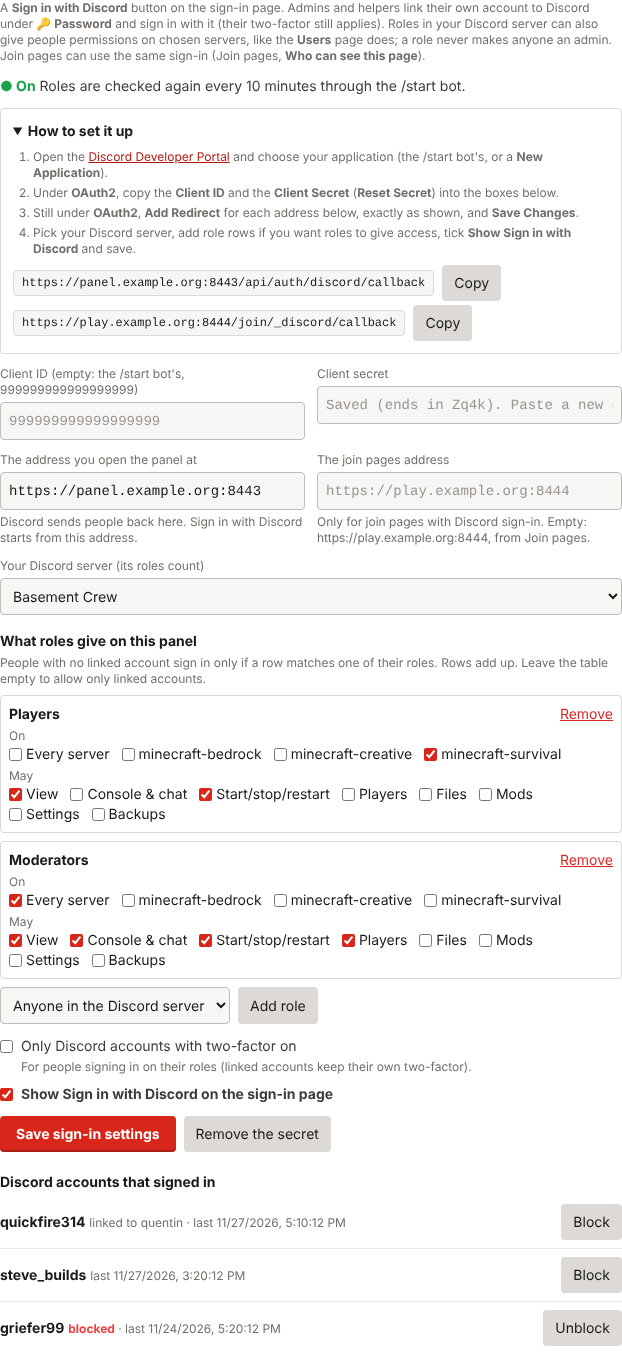
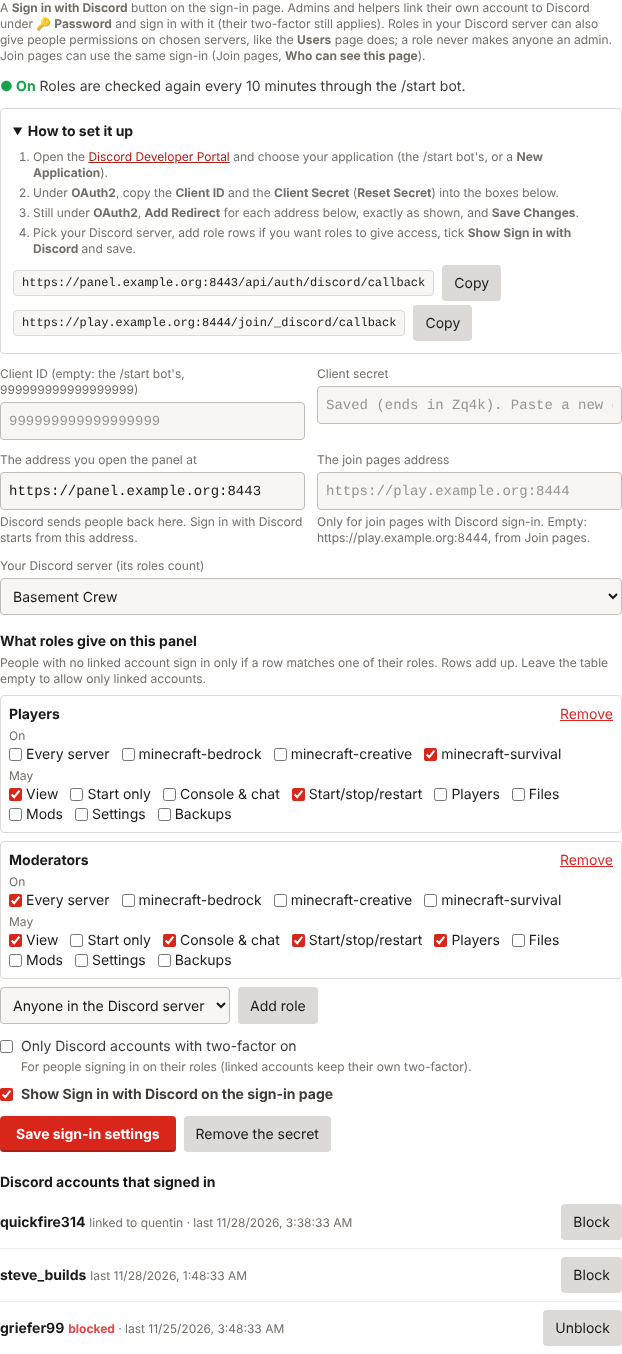
Release 1.28.0: Sign in with Discord, join pages by permission, Whitelist by Discord
Claude-Session: https://claude.ai/code/session_01S6K3h1Bb4rkuJgc47B5pta

diff --git a/docs/wiki/Roadmap.md b/docs/wiki/Roadmap.md
@@ -1,6 +1,6 @@
 # Roadmap
 
-What's being built now and what's planned after **1.27.0**, the latest release. Version numbers are targets, not promises, and your feedback
+What's being built now and what's planned after **1.28.0**, the latest release. Version numbers are targets, not promises, and your feedback
 decides the order: tell us in the
 [discussions](https://github.com/qrussell/redstonepanel/discussions) or on
 [Discord](https://discord.gg/B5YkQm3zaX) what you'd use first.
@@ -83,7 +83,7 @@ can), and Windows 10 installs with an end-of-support note. Windows on ARM comes 
   The panel itself is the bot: paste a bot token in Panel Settings, choose the Discord servers
   and roles that may use it and the servers it may start. Nothing to forward, Linux and Windows.
 
-### 1.28: Sign in with Discord, and who can see a join page *(planned)*
+### 1.28: Sign in with Discord, who can see a join page, and Whitelist by Discord *(released)*
 
 - **Sign in with Discord** on the panel. Roles in your Discord server give people permissions on
   chosen servers, so giving someone the Mod role is all it takes. Free, in the core panel.
@@ -91,6 +91,10 @@ can), and Windows 10 installs with an end-of-support note. Windows on ARM comes 
   (with a panel account or Discord), or go by permission: who may see how to join, who may
   **Start** the server and who may **Stop** it. A page can also require joining your Discord
   first and show its invite link. Discord is optional.
+- **Whitelist by Discord.** Players link their Minecraft name in your Discord and the panel keeps
+  each server's whitelist: per server for anyone in your Discord, by role, or after a moderator
+  approves them. Trusted invites (your friends' link) skip approval; losing the role takes the
+  name off again. Names you add by hand are never touched.
 
 ## Ideas under consideration
 
@@ -124,4 +128,4 @@ close the gaps people most often notice when choosing a panel.
 
 ## Recently shipped
 
-See [What's New](Whats-New.md). The latest: **1.27** adds a Discord `/start` command that starts a server (or wakes it from sleep mode), with the panel itself as the bot; **1.26** adds sleep mode, which stops a server nobody plays on and starts it when someone joins, and a Start button on join pages; **1.25** adds API tokens for scripts and bots, a Start at boot switch per server and Open dashboard signed in on cluster nodes, and makes Update now work on Windows again; **1.24.1** opens the HTTPS port when a Windows PC joins a cluster shows a server created on a node straight away and loads a master's Dashboard much faster; **1.24** mixes Linux and Windows machines in one cluster and adds SFTP, Windows Hello sign-in and an easier first password on Windows; **1.23.2** lets you remove the panel safely, choosing what happens to each server first; **1.23.1** adds a port check that finds port conflicts, names the other program and fixes what it safely can; **1.23** brings Bedrock, more loaders and modpacks, limits, off-site backups, Update now and Windows sign-in to Windows; **1.22** is the Windows preview: an installer for Windows 11 and Server 2022 or 2025 that runs Java servers on one computer; **1.21.10** opens a shell on the machine in your browser, for admins, as a Linux account; **1.21.9** lets HAProxy or Cloudflare serve the join pages on your own domain, and keeps upgrades from restarting game servers; **1.21.8** fixes security problems found by code scanning: the panel works in server folders with the game account's rights, so links there can't reach other files; **1.21.7** opens settings files such as `server.properties` and `eula.txt` on the Files tab in a Visual Editor like Configuration's; **1.21.6** adds player packs: the mods players need, built from the server's own mods folder and offered on its join page; **1.21.5** adds join pages: a public page per server that tells players how to join, on a port of its own; **1.21.4** adds quick commands to Live Chat: suggestions as you type, a form that builds the command and one-click buttons; **1.21.3** finds Minecraft servers set up outside the panel and can take them over in place, with undo; **1.21.2** makes light/dark mode a one-click switch in the top right corner; **1.21.1** lets you choose the disk and folder servers are kept in; **1.21** is groundwork for the Windows version, with nothing changed on screen; **1.20** adds Purpur, Quilt, NeoForge and Forge servers and modpacks from Modrinth or a CurseForge server pack; **1.19** changes a Java server's type in place (Vanilla, Paper, Fabric) with a backup and undo, and rolls back updates; **1.18** adds per-server permissions for helpers and SFTP for FileZilla or WinSCP; **1.17.2** adds Advanced options to New server (builds, Java, memory, limits, startup flags, world and settings); **1.17.1** explains why a server crashed and offers the fix; **1.17** adds performance charts, suggestions and memory and CPU limits; **1.16.14** adds the Port forwarding page, and **1.16.13** moves big worlds with seconds of downtime.
+See [What's New](Whats-New.md). The latest: **1.28** adds Sign in with Discord, join pages by permission (who may see, Start and Stop) and Whitelist by Discord, which keeps whitelists in step with Discord roles; **1.27** adds a Discord `/start` command that starts a server (or wakes it from sleep mode), with the panel itself as the bot; **1.26** adds sleep mode, which stops a server nobody plays on and starts it when someone joins, and a Start button on join pages; **1.25** adds API tokens for scripts and bots, a Start at boot switch per server and Open dashboard signed in on cluster nodes, and makes Update now work on Windows again; **1.24.1** opens the HTTPS port when a Windows PC joins a cluster shows a server created on a node straight away and loads a master's Dashboard much faster; **1.24** mixes Linux and Windows machines in one cluster and adds SFTP, Windows Hello sign-in and an easier first password on Windows; **1.23.2** lets you remove the panel safely, choosing what happens to each server first; **1.23.1** adds a port check that finds port conflicts, names the other program and fixes what it safely can; **1.23** brings Bedrock, more loaders and modpacks, limits, off-site backups, Update now and Windows sign-in to Windows; **1.22** is the Windows preview: an installer for Windows 11 and Server 2022 or 2025 that runs Java servers on one computer; **1.21.10** opens a shell on the machine in your browser, for admins, as a Linux account; **1.21.9** lets HAProxy or Cloudflare serve the join pages on your own domain, and keeps upgrades from restarting game servers; **1.21.8** fixes security problems found by code scanning: the panel works in server folders with the game account's rights, so links there can't reach other files; **1.21.7** opens settings files such as `server.properties` and `eula.txt` on the Files tab in a Visual Editor like Configuration's; **1.21.6** adds player packs: the mods players need, built from the server's own mods folder and offered on its join page; **1.21.5** adds join pages: a public page per server that tells players how to join, on a port of its own; **1.21.4** adds quick commands to Live Chat: suggestions as you type, a form that builds the command and one-click buttons; **1.21.3** finds Minecraft servers set up outside the panel and can take them over in place, with undo; **1.21.2** makes light/dark mode a one-click switch in the top right corner; **1.21.1** lets you choose the disk and folder servers are kept in; **1.21** is groundwork for the Windows version, with nothing changed on screen; **1.20** adds Purpur, Quilt, NeoForge and Forge servers and modpacks from Modrinth or a CurseForge server pack; **1.19** changes a Java server's type in place (Vanilla, Paper, Fabric) with a backup and undo, and rolls back updates; **1.18** adds per-server permissions for helpers and SFTP for FileZilla or WinSCP; **1.17.2** adds Advanced options to New server (builds, Java, memory, limits, startup flags, world and settings); **1.17.1** explains why a server crashed and offers the fix; **1.17** adds performance charts, suggestions and memory and CPU limits; **1.16.14** adds the Port forwarding page, and **1.16.13** moves big worlds with seconds of downtime.

diff --git a/release-notes/v1.28.0.md b/release-notes/v1.28.0.md
@@ -1,0 +1,69 @@
+Discord for your community: sign in with Discord, join pages by permission, and a whitelist your Discord roles keep up to date.
+
+## New
+
+- **Sign in with Discord.** In **Panel Settings → Sign in with Discord**, paste the Client ID and Client Secret of your Discord application (the /start bot's is fine), add the two redirect addresses the panel shows, and pick your Discord server. A **Sign in with Discord** button appears on the sign-in page. Admins and helpers link their own account under **🔑 Password → Discord** (their two-factor still applies). People without a panel account can sign in on their Discord roles: each row gives a role permissions on chosen servers, with the same ticks as the Users page. A role never makes anyone an admin. See [Sign in with Discord](https://github.com/qrussell/redstonepanel/blob/v1.28.0/docs/guide/README.md#sign-in-with-discord-128).
+
+  <picture><source media="(prefers-color-scheme: light)" srcset="https://raw.githubusercontent.com/qrussell/redstonepanel/v1.28.0/docs/guide/images/light/discord-signin-settings.png"><img src="https://raw.githubusercontent.com/qrussell/redstonepanel/v1.28.0/docs/guide/images/discord-signin-settings.png" alt="Sign in with Discord in Panel Settings" width="480"></picture>
+
+- **Who can see a join page.** Each join page can stay open to anyone with the link, ask visitors to sign in (with a panel account or Discord), or go **by permission**: row by row, who may **See how to join**, **Start** and, new, **Stop** the server. A page can require joining your Discord server first and show its invite. **Visitors who aren't signed in** can be allowed to see the page and press Start, while moderators sign in for Stop. See [Who can see a join page](https://github.com/qrussell/redstonepanel/blob/v1.28.0/docs/guide/README.md#who-can-see-a-join-page-128).
+
+  <picture><source media="(prefers-color-scheme: light)" srcset="https://raw.githubusercontent.com/qrussell/redstonepanel/v1.28.0/docs/guide/images/light/join-access.png"><img src="https://raw.githubusercontent.com/qrussell/redstonepanel/v1.28.0/docs/guide/images/join-access.png" alt="Who can see this page, on a server's join page settings" width="640"></picture>
+
+- **Whitelist by Discord.** Players press **Link your Minecraft name** in your Discord (or type `/minecraft`), and the panel puts the name on the whitelist (Bedrock: allowlist) of each server they may play on. Per server you choose **Off**, **Anyone in our Discord**, **These roles**, or **Moderator approval**. For a public invite, a moderator approves each new person once with **Approve** in your moderators' channel, which can also give them a role; invites you mark **Trusted** (your friends' link) skip that. Losing the role, leaving your Discord or being blocked takes the name off again. Names you add by hand are never touched. See [Whitelist by Discord](https://github.com/qrussell/redstonepanel/blob/v1.28.0/docs/guide/README.md#whitelist-by-discord-128).
+
+  <picture><source media="(prefers-color-scheme: light)" srcset="https://raw.githubusercontent.com/qrussell/redstonepanel/v1.28.0/docs/guide/images/light/discord-whitelist.png"><img src="https://raw.githubusercontent.com/qrussell/redstonepanel/v1.28.0/docs/guide/images/discord-whitelist.png" alt="Whitelist by Discord in Panel Settings" width="480"></picture>
+
+- **Start only.** A new per-server permission next to **Start/stop/restart**, for Users page accounts, API tokens and Discord roles: they can start a server but not stop it.
+
+- **Discord /start** now lets the Discord server's owner and administrators use it without one of the listed roles. When the bot asks for the Server Members Intent and it isn't turned on in the Developer Portal, the bot keeps running without it and the panel says what to turn on.
+
+## Upgrading an existing panel
+
+Nothing to do: `apt upgrade`, **Update now**, or the new MSI as usual. Every new Discord feature is off until you set it up, and join pages stay open to anyone with the link. In a cluster, set Whitelist by Discord up on the master (it keeps its nodes' whitelists too); each panel has its own sign-in settings. Update nodes too: a node older than 1.28 refuses accounts that may only start.
+
+Tested: 1,381 unit tests, including 27 new ones for Discord sign-in and join pages and 34 for the whitelist; the join page install test with sign-in, Start and Stop on a real server; and a real test with a new Discord community server, where Discord sign-in, `/start`, linking a name, a moderator's approval and joining the game on the whitelist all worked. Also the install tests on every supported system and the cluster tests.
+
+## Installing on Windows
+
+1. Download `RedstonePanel-1.28.0-x64.msi` below and open it. It isn't signed yet, so SmartScreen says **Windows protected your PC**: choose **More info**, then **Run anyway**. Its SHA-256 is in `RedstonePanel-1.28.0-x64.msi.sha256` next to it.
+2. Choose where servers, backups and settings are kept. The default is `C:\ProgramData\RedstonePanel`, and the folder's name can't have a space in it.
+3. Leave **Open RedstonePanel in my browser** ticked and click **Finish**, then choose your password for **admin**. Or sign in with your own Windows administrator account.
+
+See [On Windows](https://github.com/qrussell/redstonepanel/blob/main/docs/guide/README.md#on-windows) in the manual.
+
+## Installing
+
+RedstonePanel runs on **Ubuntu 24.04, 26.04 and 26.10**, **Debian 13** and **64-bit Raspberry Pi OS** (Raspberry Pi 4 or 5), on x86-64 and ARM64. See [Supported systems](https://github.com/qrussell/redstonepanel#supported-systems). The easiest way to install it, and to get every later version with `apt upgrade`, is the signed **qrussell-repo** apt repository:
+
+```bash
+sudo apt install -y curl ca-certificates
+curl -fsSL https://qrussell.github.io/qrussell-repo/deb/qrussell-repo.gpg | sudo tee /usr/share/keyrings/qrussell-repo.gpg >/dev/null
+echo "deb [signed-by=/usr/share/keyrings/qrussell-repo.gpg] https://qrussell.github.io/qrussell-repo/deb ./" | sudo tee /etc/apt/sources.list.d/qrussell.list
+sudo apt update
+sudo apt install redstonepanel
+```
+
+Or in one line: `curl -fsSL https://raw.githubusercontent.com/qrussell/redstonepanel/main/install.sh | sudo sh`
+
+Then open **http://&lt;server&gt;:8080/** and sign in with a Linux account in the `sudo` group.
+
+To check the repository key before trusting it, `gpg --show-keys /usr/share/keyrings/qrussell-repo.gpg` should show the fingerprint `9994A9EB39EB3C101C949FB2012BA14E0FE3A355`.
+
+Prefer not to add a repository? Download `redstonepanel_1.28.0_all.deb` below and run `sudo apt install ./redstonepanel_1.28.0_all.deb`. You then install each new version the same way.
+
+The [user manual](https://github.com/qrussell/redstonepanel/blob/main/docs/guide/README.md) walks through every feature, with screenshots.
+
+## Upgrading
+
+If you use the qrussell-repo repository:
+
+```bash
+sudo apt update && sudo apt upgrade
+```
+
+New versions reach the repository within a few hours of their release. Otherwise, install the new .deb as above.
+
+Running servers keep running through the upgrade.
+
+**Full Changelog**: https://github.com/qrussell/redstonepanel/compare/v1.27.0...v1.28.0

diff --git a/docs/design/roadmap.md b/docs/design/roadmap.md
@@ -1,6 +1,6 @@
 # RedstonePanel roadmap
 
-Status: planning · Written after 1.5.0 (17 Nov 2026), updated for 1.27.0 (27 Nov 2026), with the release order revised the same day: moving servers between cluster members, a first-run setup guide, kick and ban with the redstone branding, a folding server list, two-factor sign-in (1.16.7), backups on another node (1.16.8), newer Ubuntu, Debian, ARM64 and Raspberry Pi (1.16.9), a phone-friendly panel (1.16.10), backups off the machine without a cluster (1.16.11) Bedrock auto-updates and update alerts (1.16.12) pre-copy and LAN discovery (1.16.13) a port forwarding guide (1.16.14), performance (1.17), crash explanations (1.17.1), Advanced options on New server (1.17.2), per-server permissions and SFTP (1.18), changing a server's type or version (1.19) Forge, NeoForge, Quilt, Purpur and modpacks (1.20) the groundwork for Windows (1.21) a servers folder you choose (1.21.1), a one-click light/dark switch (1.21.2), finding servers set up outside the panel (1.21.3), quick commands in Live Chat (1.21.4), join pages (1.21.5), player packs (1.21.6) a Visual Editor for settings files (1.21.7) security fixes from code scanning (1.21.8) join pages through a proxy (1.21.9) a terminal in the panel (1.21.10) the Windows preview (1.22) the whole single machine on Windows (1.23) a port check (1.23.1) removing the panel safely (1.23.2) and mixed Linux and Windows clusters with Windows Hello sign-in (1.24) with its Windows cluster fixes (1.24.1), API tokens, Start at boot and Open dashboard signed in (1.25), sleep mode with Start on the join page (1.26), and a Discord /start command (1.27) shipped; Sign in with Discord and join pages by permission (1.28) next, with proposed additions below · Author: Quentin Russell
+Status: planning · Written after 1.5.0 (17 Nov 2026), updated for 1.28.0 (28 Nov 2026), with the release order revised the same day: moving servers between cluster members, a first-run setup guide, kick and ban with the redstone branding, a folding server list, two-factor sign-in (1.16.7), backups on another node (1.16.8), newer Ubuntu, Debian, ARM64 and Raspberry Pi (1.16.9), a phone-friendly panel (1.16.10), backups off the machine without a cluster (1.16.11) Bedrock auto-updates and update alerts (1.16.12) pre-copy and LAN discovery (1.16.13) a port forwarding guide (1.16.14), performance (1.17), crash explanations (1.17.1), Advanced options on New server (1.17.2), per-server permissions and SFTP (1.18), changing a server's type or version (1.19) Forge, NeoForge, Quilt, Purpur and modpacks (1.20) the groundwork for Windows (1.21) a servers folder you choose (1.21.1), a one-click light/dark switch (1.21.2), finding servers set up outside the panel (1.21.3), quick commands in Live Chat (1.21.4), join pages (1.21.5), player packs (1.21.6) a Visual Editor for settings files (1.21.7) security fixes from code scanning (1.21.8) join pages through a proxy (1.21.9) a terminal in the panel (1.21.10) the Windows preview (1.22) the whole single machine on Windows (1.23) a port check (1.23.1) removing the panel safely (1.23.2) and mixed Linux and Windows clusters with Windows Hello sign-in (1.24) with its Windows cluster fixes (1.24.1), API tokens, Start at boot and Open dashboard signed in (1.25), sleep mode with Start on the join page (1.26), a Discord /start command (1.27), and Sign in with Discord, join pages by permission and Whitelist by Discord (1.28) shipped, with proposed additions below · Author: Quentin Russell
 
 The public summary of this plan is [docs/wiki/Roadmap.md](../wiki/Roadmap.md); keep the two in
 step when either changes.
@@ -2480,7 +2480,7 @@ for servers and hosts at the same time and draw members first. Tests: `tests/tes
     READY, roles, interactions, resume after a reconnect request, a refused token, a missed
     heartbeat, an invalid session and Discord asking for a heartbeat).
 
-### 1.28: Sign in with Discord, and who can see a join page *(next)*
+### 1.28: Sign in with Discord, who can see a join page, and Whitelist by Discord *(released 28 Nov 2026)*
 
 36. **Sign in with Discord, and join pages by permission.** Asked for by Quentin on 27 Nov 2026:
     communities that host their own servers already organise people in Discord. Discord sign-in
@@ -2494,8 +2494,30 @@ for servers and hosts at the same time and draw members first. Tests: `tests/tes
     authorization code with `identify guilds.members.read`, the token thrown away after reading the
     member, re-checks through the 1.27 bot when it's there; the same Discord application as the bot.
     Plan: [discord-sign-in.md](discord-sign-in.md). **Size:** about two and a half weeks.
-    **Built** 27 Nov 2026 on `feature/discord-sign-in` (see "As built" in the plan); released with
-    1.28.0.
+    **As built (1.28):** `core/discordauth.py` (settings in `discord-signin.json`, 0600; the OAuth2
+    code flow; role grants; linked accounts; member re-checks through the 1.27 bot every 10
+    minutes), `core/joinpage.py` and `core/joinsite.py` for the access choices, sign-in on the join
+    port and Stop. Added during the real-Discord test: a **Start only** permission (accounts, API
+    tokens, Discord roles; a node older than 1.28 refuses it, which is safe) and a **Visitors who
+    aren't signed in** row (see and Start, never Stop). See "As built" in the plan.
+
+37. **Whitelist by Discord.** Asked for by Quentin on 27 Nov 2026 during the 1.28 test: a player
+    links their Minecraft name in Discord and is whitelisted, and admins choose per server how
+    strict that is. Planned as 1.28.1; Quentin chose on 28 Nov to ship it in 1.28.0 with Sign in
+    with Discord. Plan: [discord-whitelist.md](discord-whitelist.md). **As built (1.28):**
+    `core/discordwl.py` (rules and state in `discord-whitelist.json`, 0600) and
+    `core/discordbot_wl.py` (the **Link your Minecraft name** button and form, `/minecraft`, **Ask
+    to join**, **Approve** and **Deny** in the moderators' channel, member and invite events, the
+    role re-check), carried by the /start bot. Per server Off, anyone in our Discord, these roles,
+    or moderator approval, with an **Every server** default; trust by role or by a moderator's
+    one-time approval, trusted invites (with a minimum account age) and invite roles; per-person
+    exceptions. The panel only removes names it added and never claims a hand-added name; a master
+    keeps its nodes' whitelists. With the Server Members Intent changes arrive at once (a full
+    re-read runs daily); without it linked people's roles are read every 5 minutes, and a refused
+    intent falls back instead of stopping the bot. Also: the Discord server's owner and
+    administrators may use `/start` without a listed role, and the panel refuses an application's
+    Public Key pasted as the client secret. **Tested:** `tests/test_discordwl.py` (34) and a real
+    Discord community server (link, approve, whitelist by role, join in game).
 
 ## Groundwork (do alongside, before promoting)
 

diff --git a/docs/guide/README.md b/docs/guide/README.md
@@ -33,9 +33,9 @@ command-line option, run `man redstonepanel`. This manual is also published as t
 | Keep a server from starting when the machine starts | [Start at boot](#start-at-boot) |
 | Stop a server nobody plays on, and start it when someone joins | [Sleep mode](#sleep-mode) |
 | Let friends start a stopped server from its join page | [Join pages](#join-pages) (**Let visitors start the server**) |
-| Let only my Discord members, or chosen people, see a join page or start and stop the server | [Who can see a join page](#who-can-see-a-join-page) |
-| Sign in to the panel with Discord | [Sign in with Discord](#sign-in-with-discord) |
-| Let my Discord members onto the whitelist by themselves | [Whitelist by Discord](#whitelist-by-discord) |
+| Let only my Discord members, or chosen people, see a join page or start and stop the server | [Who can see a join page](#who-can-see-a-join-page-128) |
+| Sign in to the panel with Discord | [Sign in with Discord](#sign-in-with-discord-128) |
+| Let my Discord members onto the whitelist by themselves | [Whitelist by Discord](#whitelist-by-discord-128) |
 | Find out why a server lags | [Performance](#performance) |
 | Give a server more memory, or limit it | [Memory and limits](#memory-and-limits) |
 | Update a server to a newer Minecraft version | [Maintenance](#8-maintenance-templates-export-update-uninstall) |
@@ -338,7 +338,7 @@ There are two kinds of account:
   Windows, without `sudo`); it signs that account out everywhere.
 
 Once an admin sets it up, **Sign in with Discord** works too; see
-[Sign in with Discord](#sign-in-with-discord) *(1.28)*.
+[Sign in with Discord](#sign-in-with-discord-128) *(1.28)*.
 
 On **Windows** the first kind is **Windows accounts** in **Administrators** or a local group named
 **RedstonePanel**, with their Windows password, and both kinds can add
@@ -646,7 +646,7 @@ Nothing is public until you turn it on, twice: the port, and then each server's 
     2 minutes from its page, and each visitor at most 3 times an hour. On a page open to
     anyone it never stops a server; pair it with [Sleep mode](#sleep-mode) so it stops by itself
     again when nobody plays. To let only some people start it, or let moderators stop it, see
-    [Who can see a join page](#who-can-see-a-join-page).
+    [Who can see a join page](#who-can-see-a-join-page-128).
   - **A note for players** and **a link of your own** (a Discord invite, a website) appear at
     the top of the page. Only `https://` links are accepted.
   - **Where players get the mods** (mod servers). A server made **From a modpack** on Modrinth
@@ -699,7 +699,7 @@ who may press **Start** and **Stop**:
 
 Visitors sign in **with a panel account** (from the Users page; a plain account with no server
 permissions is enough for a player), **with Discord** (once
-[Sign in with Discord](#sign-in-with-discord) is set up), or either. Discord is optional: a page
+[Sign in with Discord](#sign-in-with-discord-128) is set up), or either. Discord is optional: a page
 that needs sign-in works with panel accounts alone. This computer's own Linux or Windows
 accounts can't sign in on a public page, and the page's sign-in is never a panel sign-in: it
 only opens join pages.
@@ -2399,7 +2399,7 @@ wrongly: reset it again and paste the new one. The panel needs to reach `discord
 ### Sign in with Discord *(1.28)*
 
 Put a **Sign in with Discord** button on the panel's sign-in page and, if you like, on
-[join pages](#who-can-see-a-join-page). It is optional: nothing changes until you set it up.
+[join pages](#who-can-see-a-join-page-128). It is optional: nothing changes until you set it up.
 
 - **Admins and helpers** link their own account: **🔑 Password → Discord → Link Discord**. After
   that, **Sign in with Discord** signs them in as that account, and their two-factor sign-in
@@ -2444,7 +2444,7 @@ The panel needs to reach `discord.com` on port 443.
 
 Players link their Minecraft name in your Discord server and the panel puts it on the whitelist
 (Bedrock: allowlist) of each server they may play on. When they lose the role, leave your
-Discord or are [blocked](#sign-in-with-discord), the panel takes the name off again. Names you add
+Discord or are [blocked](#sign-in-with-discord-128), the panel takes the name off again. Names you add
 yourself on the [Whitelist & Access tab](#7-configuration-player-roles-and-the-whitelist) are never touched; the panel only removes names it
 added.
 
@@ -2492,6 +2492,8 @@ can't ask for a Minecraft name; that's what the button is for.
    messages, **Manage Server** (to tell invites apart) and **Manage Roles** (to give roles). In
    Discord's **Server Settings → Roles**, drag the bot's role above the roles it gives.
 5. Pick a channel new members see and press **Post the button**. Pin the message.
+
+<picture><source media="(prefers-color-scheme: light)" srcset="images/light/discord-whitelist.png"><img src="images/discord-whitelist.png" alt="Whitelist by Discord in Panel Settings: a choice per server, a moderator approves each new person, the moderators' channel, a trusted and a needs-approval invite, a request waiting and the linked accounts"></picture>
 
 **Linked accounts** lists everyone who linked a name, their servers and whether they're
 approved. **Exceptions for this person** can always allow them on a server, or keep them off one,

diff --git a/docs/wiki/Whats-New.md b/docs/wiki/Whats-New.md
@@ -9,6 +9,22 @@ the dashboard.
 
 ---
 
+## 1.28.0: Discord for your community *(November 2026)*
+
+- **Sign in with Discord** on the panel: admins and helpers link their own account, and roles in
+  your Discord server give people permissions on chosen servers (never admin).
+- **Who can see a join page**: anyone with the link, anyone who signs in, or by permission, with
+  ticks for **See how to join**, **Start** and a new **Stop**. A page can require joining your
+  Discord first.
+- **Whitelist by Discord**: players link their Minecraft name in Discord and the panel keeps each
+  server's whitelist, per server by role, for anyone in your Discord, or after a moderator's
+  **Approve**. Trusted invites skip approval. Names added by hand are never touched.
+- **Start only**: a permission to start a server but not stop it.
+
+<picture><source media="(prefers-color-scheme: light)" srcset="../guide/images/light/discord-whitelist.png"><img src="../guide/images/discord-whitelist.png" alt="Whitelist by Discord in Panel Settings"></picture>
+
+[Release notes](../../release-notes/v1.28.0.md)
+
 ## 1.27.0: Discord /start *(November 2026)*
 
 - **/start in your Discord**: pick a server and the panel starts it, or wakes it from sleep

diff --git a/README.md b/README.md
@@ -108,6 +108,10 @@ see them in the other theme:
 
 The [user manual](docs/guide/README.md) walks through every feature with screenshots.
 
+## What's new in 1.28
+
+**Discord for your community.** **Sign in with Discord** lets admins and helpers sign in with their Discord account, and Discord roles give people permissions on chosen servers. Each join page can stay open, ask visitors to sign in, or go by permission: who may see how to join, **Start** and **Stop**. **Whitelist by Discord** puts the Minecraft name players link in your Discord on the whitelist of each server their roles (or a moderator's approval) allow, and takes it off when they lose the role. See the [1.28.0 release notes](release-notes/v1.28.0.md).
+
 ## What's new in 1.27
 
 **Discord /start** lets people in your Discord start a server, or wake it from sleep mode, by typing `/start`; the bot then says when it's online and where to join. The panel itself is the bot: paste a bot token in **Panel Settings → Discord** and choose the Discord servers, roles and game servers it may use. Nothing to forward, on Linux and Windows. See the [1.27.0 release notes](release-notes/v1.27.0.md).

diff --git a/docs/design/discord-whitelist.md b/docs/design/discord-whitelist.md
@@ -1,6 +1,6 @@
 # Whitelist by Discord role
 
-Status: **built and tested with real Discord (28 Nov 2026)** · Target: **1.28.0**, together with Sign in with Discord (Quentin, 28 Nov 2026; first planned as 1.28.1,
+Status: **released in 1.28.0** (built and tested with real Discord, 28 Nov 2026), together with Sign in with Discord (Quentin, 28 Nov 2026; first planned as 1.28.1,
 right after 1.28) · Written 27 Nov 2026
 
 Asked for by Quentin on 27 Nov 2026 during the 1.28 test: a player adds their Minecraft name in

diff --git a/docs/design/discord-sign-in.md b/docs/design/discord-sign-in.md
@@ -1,6 +1,6 @@
 # Sign in with Discord, and who can see a join page
 
-Status: **built for 1.28** (go from Quentin 27 Nov 2026), not yet released · Written 27 Nov 2026
+Status: **released in 1.28.0** (28 Nov 2026; go from Quentin 27 Nov 2026) · Written 27 Nov 2026
 
 Asked for by Quentin on 27 Nov 2026: "communities that selfhost would find this a useful feature".
 Discord sign-in moves into the free core. Microsoft, Google, GitHub, Apple and Steam sign-in stay in
